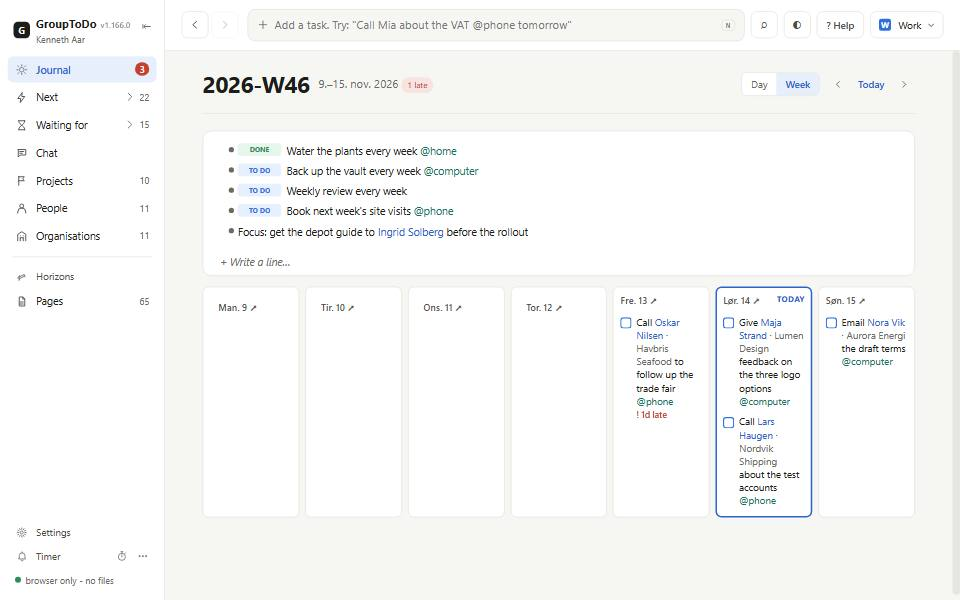
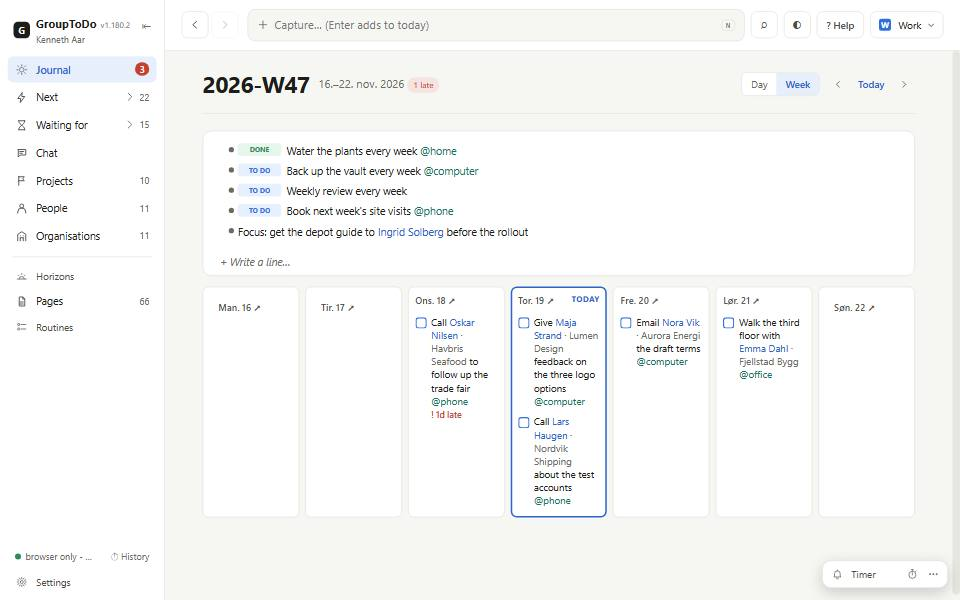
Journal: Back, Forward and Light or dark back in the day's heading on a wide screen (v1.182.2)
Fixes #445

diff --git a/tests/battery.js b/tests/battery.js
@@ -8804,6 +8804,10 @@ var GTD_TEST = (() => {
       const head = content().querySelector(".todayhead");
       ok(head.contains($("#spacesBtn")) && seen($("#spacesBtn")), "the areas stand in the day's heading");
       ok(head.contains($(".hnow")), "what is on now too");
+      // #445 Back, Forward and Light or dark were lost with the bar.
+      ok(head.contains($("#btnBack")) && seen($("#btnBack")) && seen($("#btnFwd")), "Back and Forward stand in the day's heading (#445)");
+      ok(head.firstElementChild.contains($("#btnBack")), "at its left end (#445)");
+      ok(head.contains($("#btnTheme")) && seen($("#btnTheme")), "Light or dark stands in the day's heading (#445)");
       ok(seen($("#sideSearch")), "Search in the sidebar");
       // #323 Help floats in the bottom right corner, under the Timer.
       const help = $("#floatHelp"), timer = $("#timerFloat .nav-item.timer");
@@ -8824,6 +8828,7 @@ var GTD_TEST = (() => {
       go("next"); await settle();
       ok(seen(bar()), "Next keeps its bar");
       ok(bar().contains($("#spacesBtn")) && bar().contains($(".hnow")), "with the areas and what is on now back in it");
+      ok(bar().contains($("#btnBack")) && bar().contains($("#btnTheme")), "Back, Forward and Light or dark back in it too (#445)");
       ok(!seen($("#sideSearch")), "and one Search, in the bar");
     } finally { setSidebarHidden(false); go("today"); await settle(); }
   });

diff --git a/src/js/115-render-dispatcher/journalPaper.js b/src/js/115-render-dispatcher/journalPaper.js
@@ -11,17 +11,20 @@ function journalPaper(place = true) {
   const top = $("header.top"), cap = top && top.querySelector(".capture");
   if (!cap) return;
   if (!JOURNAL_PAPER_TOOLS) {
-    const now = $(".hnow"), sb = $("#spacesBtn"), sp = $("#spop");
-    if (!now || !sb || !sp) return;
-    JOURNAL_PAPER_TOOLS = {now, sb, sp};
+    const now = $(".hnow"), sb = $("#spacesBtn"), sp = $("#spop"), hist = $(".h-hist"), theme = $("#btnTheme");
+    if (!now || !sb || !sp || !hist || !theme) return;
+    JOURNAL_PAPER_TOOLS = {now, sb, sp, hist, theme};
   }
-  const {now, sb, sp} = JOURNAL_PAPER_TOOLS;
+  const {now, sb, sp, hist, theme} = JOURNAL_PAPER_TOOLS;
   const head = place && $("#content .todayhead:not(.weekhead) > .vhead-r");
   const on = !!head && matchMedia("(min-width:641px)").matches;
   if (place) document.body.classList.toggle("paper", on);
-  if (on) head.prepend(now, sb, sp);
-  else if (sb.parentNode !== top || !sp.isConnected || !now.isConnected) {
+  // Back and Forward at the heading's left end, Light or dark at its right (#445).
+  if (on) { head.prepend(now, sb, sp); head.append(theme); head.parentNode.prepend(hist); }
+  else if (sb.parentNode !== top || !sp.isConnected || !now.isConnected || hist.parentNode !== top || theme.parentNode !== top) {
+    cap.before(hist);
     cap.after(now);
     top.append(sb, sp);
+    $("#btnSearch").after(theme);
   }
 }

diff --git a/src/js/90-view-state/vars-HELP_PARTS.js b/src/js/90-view-state/vars-HELP_PARTS.js
@@ -76,6 +76,8 @@ const HELP = {
       "On a phone, ⋯ opens the lists, trackers and History."],
     keys: [["T", "Journal"], ["Enter", "New line"], ["Tab", "Indent"], ["Shift+Tab", "Outdent"]],
     legend: [[".todayhead h1", "The day you are on."],
+      [".todayhead .h-hist", "Back and forward through what you opened."],
+      [".todayhead #btnTheme", "Light or dark."],
       ["?.viewmenu", "View: what you change now and then."],
       [".todayhead .focusbtn", "Focus: only the area you write in. Leave focus, top right, or Esc, brings the rest back. Help stays bottom right."],
       ["#sideHistory", "History: everything that happened, newest first."],

diff --git a/CHANGELOG.md b/CHANGELOG.md
@@ -10,6 +10,17 @@ that breaks existing vaults. Newest first.
 - The line menu and toolbar: To area is on the line menu too, as on the bar
   under picked lines. It moves the line to another area (#443).
 
+## 1.182.2 - 2026-11-19
+
+- Journal: Back, Forward and Light or dark are back on a wide screen. They
+  went with the top bar; now Back and Forward stand at the left of the
+  day's heading, Light or dark at its right (#445).
+
+## 1.182.1 - 2026-11-19
+
+- The line menu and toolbar: To area is on the line menu too, as on the bar
+  under picked lines. It moves the line to another area (#443).
+
 ## 1.182.0 - 2026-11-19
 
 - A page: drag a page pinned in the sidebar onto a line in the Journal or
